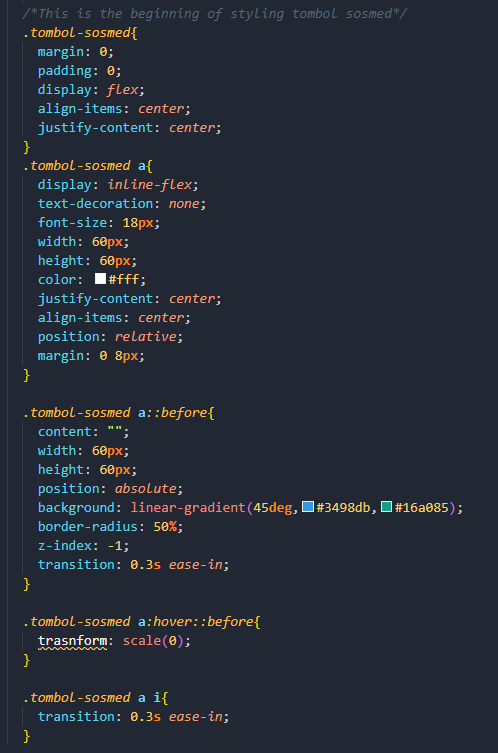
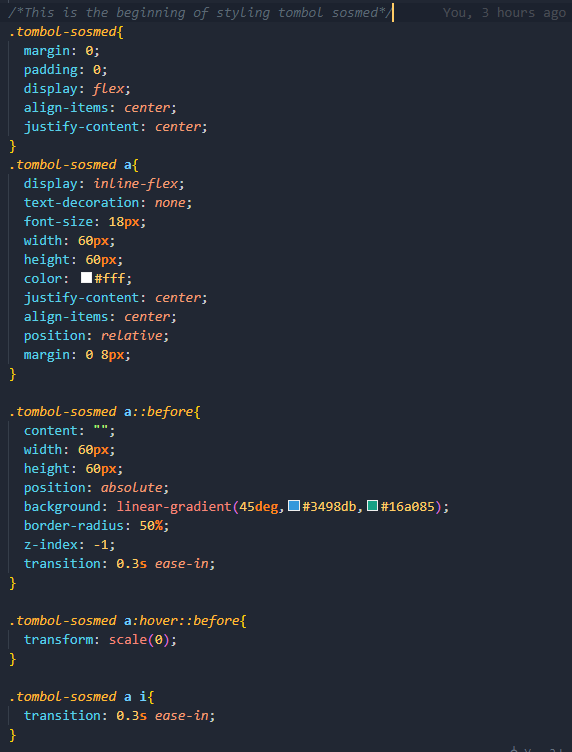
Changing Image on Readme and Edit Styling on CSS

diff --git a/style.css b/style.css
@@ -403,7 +403,7 @@
   }
   
   .tombol-sosmed a:hover::before{
-    trasnform: scale(0);
+    transform: scale(0);
   }
 
   .tombol-sosmed a i{

diff --git a/README.md b/README.md
@@ -132,7 +132,7 @@ There are few steps to Building A Simple Project Website, there are Determine Th
 4. After this you can deploy the project to Netlify. If there is any revision on your project, you can submit again the revision into repository by following step 2 and 3 without clone the repository.
 
 
-5. I want to explain on how i got the icons, fonts, and images to running this project. You can click this link below to use it too.
+5. I want to share on how i got the icons, fonts, and images to running this project. You can click this link below to use it too.
 
    * Go to [Flaticon Website](https://www.flaticon.com/icons) ![Flaticon Website](images/readme/Icon_Deployment.png)
 
